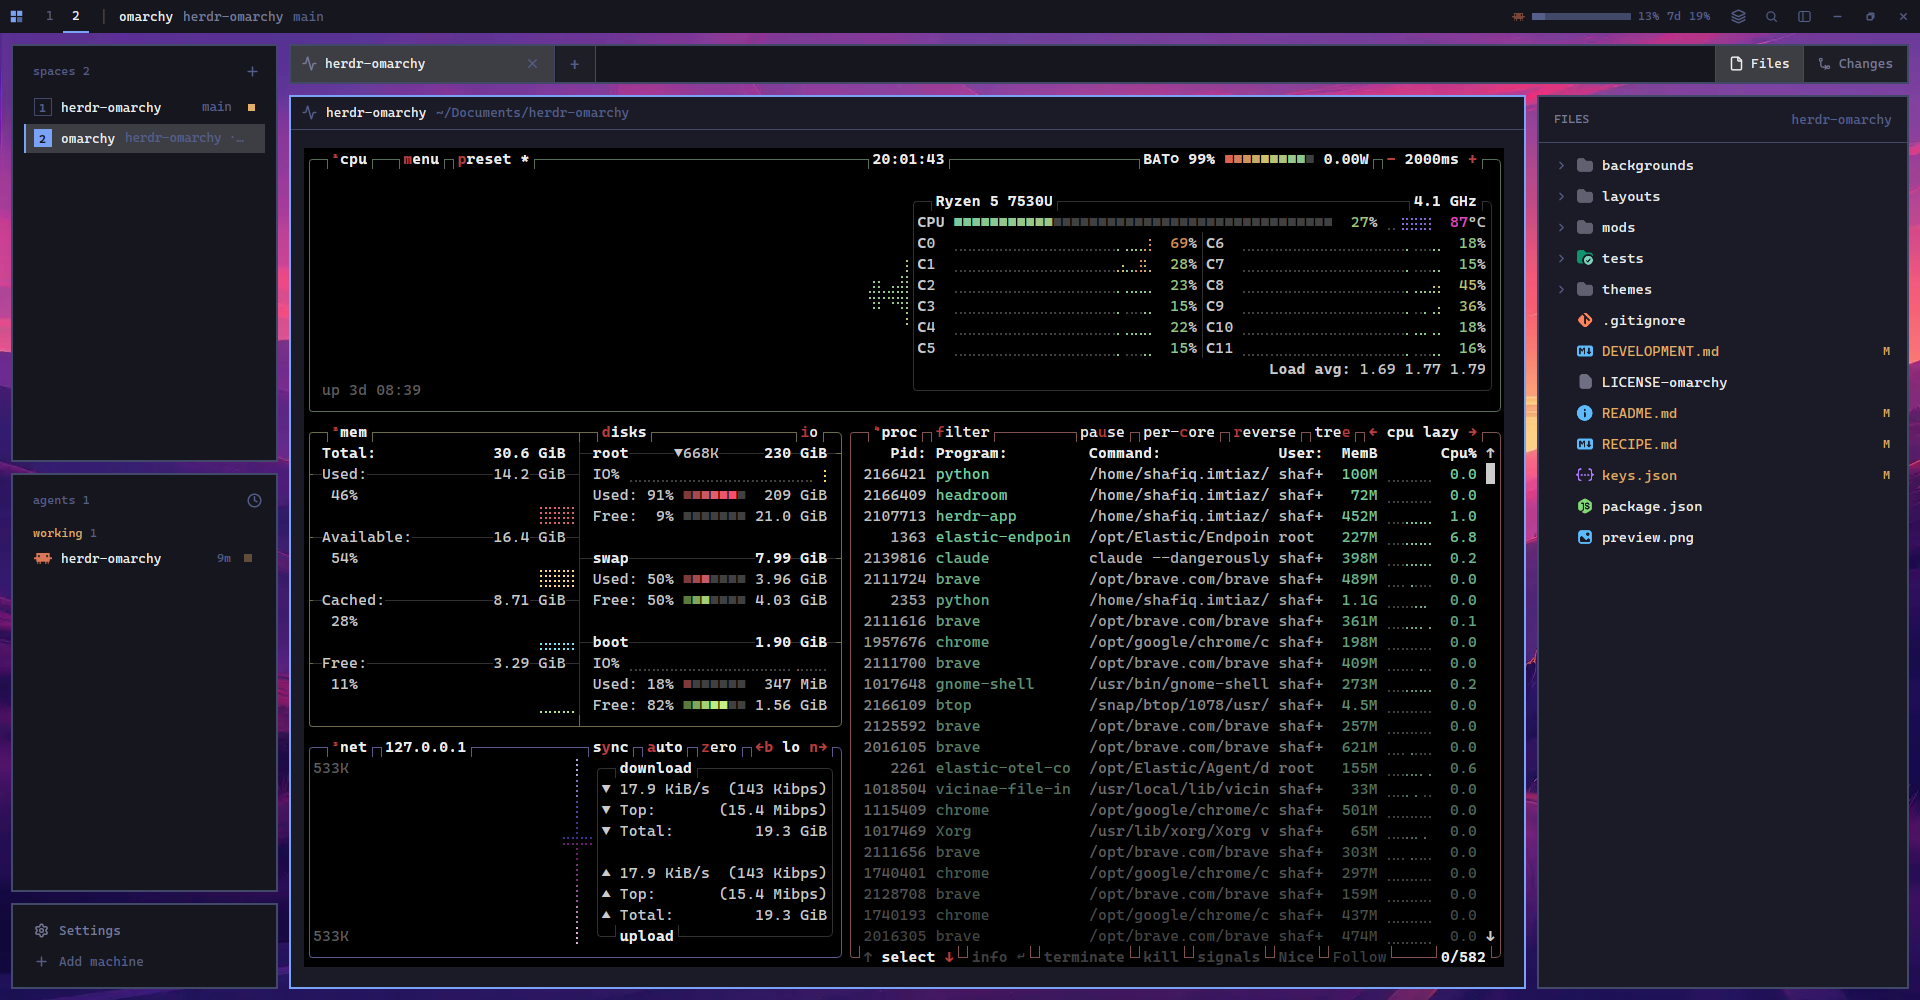
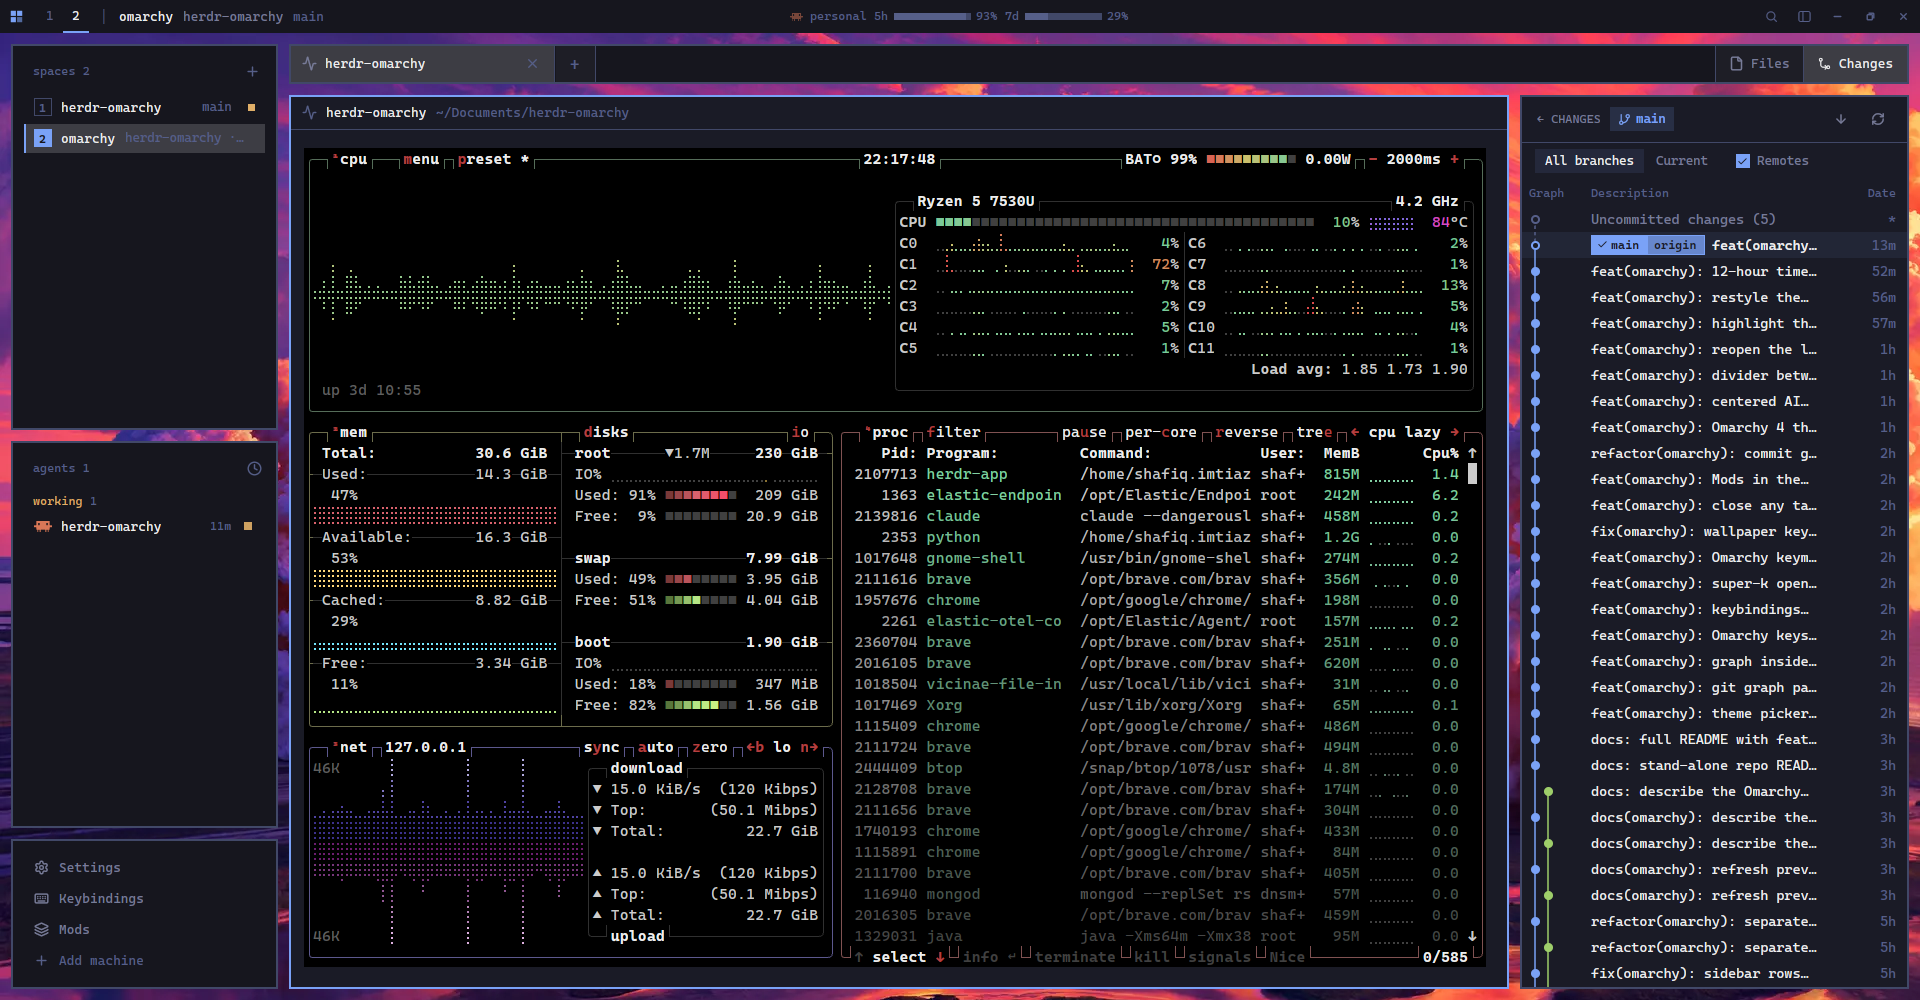
docs: show off the Omarchy layout
README leads with highlights: agents at a glance, AI usage with profile
names, reopen in place with sessions, Git and the commit graph, Omarchy
themes, wallpapers and keys. RECIPE intro (the gallery text) rewritten,
DEVELOPMENT lists the new files, and a fresh preview.

diff --git a/RECIPE.md b/RECIPE.md
@@ -1,6 +1,6 @@
 # Omarchy
 
-The Omarchy desktop look for Herdr: flat, square, bordered tiles floating over a wallpaper. A thin top bar shows your spaces, live AI usage for the agents on screen and the window buttons. The sidebar lists spaces and agents with their status, resizes, and folds into an icon rail. A side panel browses files and Git changes, commits, pushes and switches branches, and draws the commit graph. The palette, Settings and a mod manager match the look, and every Omarchy color theme comes with its wallpapers: `super-ctrl-shift-space` / `super-ctrl-t` picks a theme, `super-ctrl-space` / `super-ctrl-w` cycles its wallpapers, as in Omarchy.
+The Omarchy desktop, rebuilt inside Herdr: flat, square, bordered tiles floating over a wallpaper. The sidebar shows every space and agent with its live status, the top bar shows the AI quota of the agents on screen, and a side panel holds your files, Git changes and the full commit graph. Closed tabs reopen in place with their agents back in their own conversations. Omarchy's themes, wallpapers, theme switcher and keys come with it, and the palette, Settings, keybindings list and mod manager all share the same square look.
 
 ![Omarchy](preview.png)
 
@@ -43,8 +43,8 @@ Top to bottom, left to right. Sizes are logical px at zoom 1. Colors below are t
   - `topbar` row: `bar-left` (`omarchy-bar` `{part:"left"}`), `ai-usage` (`omarchy-ai-usage` `{compact:true}`), `bar-right` (`omarchy-bar` `{part:"right"}`).
   - `desk` row: `sidebar` column (`spaces` → `omarchy-spaces`, `agents` → `omarchy-agents`, `sidebar-footer` → `omarchy-chrome` `{footer:true}`) and `work` column (`tabs` → `omarchy-tabs`; `work-body` row with `main` `{tab:"active"}`, whose pane header is `omarchy-pane`, and the `panel` column with stack `panel-body`: `files`, `changes` (stack: `changes-view`, `git-graph`), `browser-notes`).
 - **Mods** (all in `mods/`):
-  - `omarchy-bar`, `omarchy-ai-usage`: new. `omarchy-bar` also ties the wallpaper to the theme: on any theme change it sets the layout background to the theme's first wallpaper (`layout.set`), and its `next-wallpaper` command cycles the theme's wallpapers.
-  - `omarchy-themes`: new. Theme switcher after Omarchy 4's: a full-window dialog (`frame: "none"`) over the window dimmed to 80% black. Omarchy's desktop preview of each theme (`previews/<theme>.webp`, 800px WebP from upstream `themes/<theme>/preview.png`): the chosen one at half the window width (16:9) with a 3px `accent` frame, and up to six neighbours each side as 64px strips cropped from their previews at 88% height, solid and shaded darker with distance. Below, the name in 30px semibold title case and a `current` tag. ←/→ (wrapping) choose, a strip jumps to its theme, Enter or a click on the middle applies, Esc closes. Only themes with a preview are listed; there is no perspective tilt (GPUI has no transforms).
+  - `omarchy-bar`, `omarchy-ai-usage`: new. `omarchy-bar` also ties the wallpaper to the theme: on any theme change it sets the layout background to the theme's first wallpaper (`layout.set` through `herdr-app do`, since `run()` refuses an argument nested deeper than 16 levels and this layout is deeper), and its `next-wallpaper` command cycles the theme's wallpapers.
+  - `omarchy-themes`: new. Theme switcher after Omarchy 4's: a full-window dialog (`frame: "none"`) over the window dimmed to 80% black. Omarchy's desktop preview of each theme (`previews/<theme>.webp`, 800px WebP from upstream `themes/<theme>/preview.png`): the chosen one at half the window width (16:9) with a 3px `accent` frame, and up to six neighbours each side as 64px strips cropped from their previews at 88% height, solid and shaded darker with distance. Below, the name in 30px semibold title case and a `current` tag. ←/→ (wrapping) choose, a strip jumps to its theme, Enter or a click on the middle applies, Esc closes. Only themes with a preview are listed; there is no perspective tilt (GPUI has no transforms). Picking a light theme sets `settings.json` `appearance` to `light` (a dark one to `dark`), since a light theme only shows in light mode.
   - `omarchy-keys`: new. Every binding from `keys()`, grouped This layout / Everywhere / In a terminal (other sections by name), key chips and the raw action; a filter box; global keys the layout also binds read `overridden here`. The shown layout's own keys come first as one `accent` block (2px left bar, 5% tint, "THIS LAYOUT · CAME WITH OMARCHY" and a count, `accent` key chips). Opened with `super-k` (Omarchy's key) or the footer's Keybindings row (footer 136px for its four rows).
   - `omarchy-chrome`, `omarchy-spaces`, `omarchy-agents`: clones of Herdr's `workspace-chrome`, `spaces` and `agents`.
   - `omarchy-palette`, `omarchy-settings`: copies of Herdr's `frame/palette` and `frame/settings`, with `rounded(0)`.

diff --git a/README.md b/README.md
@@ -10,16 +10,25 @@
 
 </div>
 
-The layout makes your Herdr window flat and square, with bordered tiles that float over a wallpaper. It shows your spaces, your agents and their status, and the AI usage of the agents on screen. A side panel shows your files, Git changes and a commit graph. Every Omarchy color theme comes with it.
+The Omarchy desktop, rebuilt inside Herdr. Your terminals and coding agents sit in flat, square, bordered tiles that float over a wallpaper. Everything you need while agents work is on one screen: which spaces and agents are busy, how much AI quota is left, your files, your Git changes and the whole commit graph. It follows Omarchy closely, down to the themes, the wallpapers, the theme switcher and the keys.
+
+## Highlights
+
+- **Agents at a glance.** The sidebar lists every agent with its live status: working, needs you, done or idle. Tabs show each agent's icon, what it works on and a spinner while it runs.
+- **AI usage in the top bar.** The 5-hour and 7-day quotas of the agents on screen sit in the middle of the bar, each with a bar in its provider's color. Claude profiles are named, so a work and a personal account are easy to tell apart. Click for reset times.
+- **Closed a tab by mistake? Bring it back.** `ctrl-alt-shift-t` reopens the last closed tab in the same place, with the same splits and sizes. Claude, Codex and pi come back in their own conversations, with their flags and profiles.
+- **Git without leaving the window.** The side panel shows your changes with a diff (wrap long lines, drag the split), commits, pushes, pulls, stashes and switches or creates branches. One click opens the full commit graph, with branch lanes, labels and right-click menus for checkout, merge, rebase, reset and tags.
+- **Omarchy's themes and wallpapers.** Every Omarchy theme ships with all of its wallpapers. The theme switcher is Omarchy 4's: big desktop previews, left and right to choose. A theme brings its own wallpaper, and `super-ctrl-w` cycles them. Light themes switch Herdr to light mode, dark ones back to dark.
+- **Omarchy's keys.** The layout uses Omarchy's own keys wherever GNOME leaves them free. `super-k` lists every key, with the ones that came with the layout set apart.
+- **Square dialogs that match.** The command palette, Settings, a Keybindings list and a mod manager that browses, reviews and installs community mods all share the same look.
 
 ## Features
 
-- **Top bar**: shows your spaces, live AI usage for the agents on screen, and the window buttons.
-- **Sidebar**: lists spaces and agents with their status. You can resize it, and you can fold it into an icon rail.
-- **Tabs**: each tab shows the icons of its agents, what they work on, and their status. `ctrl-alt-shift-t` reopens the last closed tab: each pane in its folder, Claude and Codex back in the conversation they had.
-- **Side panel**: shows your files with colored icons. It also shows Git changes, commits, pushes, pulls and switches branches. Changes can make a new branch, wrap long diff lines, and open a full commit graph (Graph, then ← Changes to go back). The graph shows branch lanes and labels, and its right-click menus check out, merge, rebase, reset and tag.
-- **Dialogs**: the command palette, Settings, a mod manager and a Keybindings list (every key Herdr has) have the same square look. Keybindings and Mods open from the sidebar footer.
-- **Themes**: the layout comes with every Omarchy color theme and its wallpapers. A theme changes the color of each part of the window and brings its own wallpaper. The theme switcher shows Omarchy's preview of each theme: ← and → choose, Enter applies.
+- **Top bar**: your spaces on the left, AI usage in the middle, search, sidebar and window buttons on the right.
+- **Sidebar**: spaces and agents with their status. Resize it, or fold it into an icon rail. The footer opens Settings, Keybindings and Mods.
+- **Tabs**: agent icons, what each one works on, its status, and a close button on hover.
+- **Side panel**: Files with colored icons, and Changes with the commit graph inside it.
+- **Themes**: every Omarchy color theme, each with its wallpapers.
 
 ## Install
 

diff --git a/DEVELOPMENT.md b/DEVELOPMENT.md
@@ -22,6 +22,12 @@ Each folder under `mods/` is a self-contained Herdr mod. `main.js` is its entry 
 | Mod installation, updates, removal | `mods/omarchy-mod-manager/core.js` |
 | Mod Manager text contrast and colors | `mods/omarchy-mod-manager/palette.js` |
 | Mod Manager navigation and display | `mods/omarchy-mod-manager/main.js` |
+| Changes view: diff, wrap, split, branches, commit | `mods/omarchy-changes/main.js` |
+| Reopen closed tab: snapshot and reopen key | `mods/omarchy-tabs/main.js` |
+| Reopen: agent resume commands | `mods/omarchy-tabs/reopen.js` |
+| Reopen: process scan, exact pane tree restore | `mods/omarchy-tabs/reopen.py` |
+| Keybindings list | `mods/omarchy-keys/main.js` |
+| Theme switcher and its previews | `mods/omarchy-themes/main.js`, `mods/omarchy-themes/previews/` |
 
 ## Check changes
 
